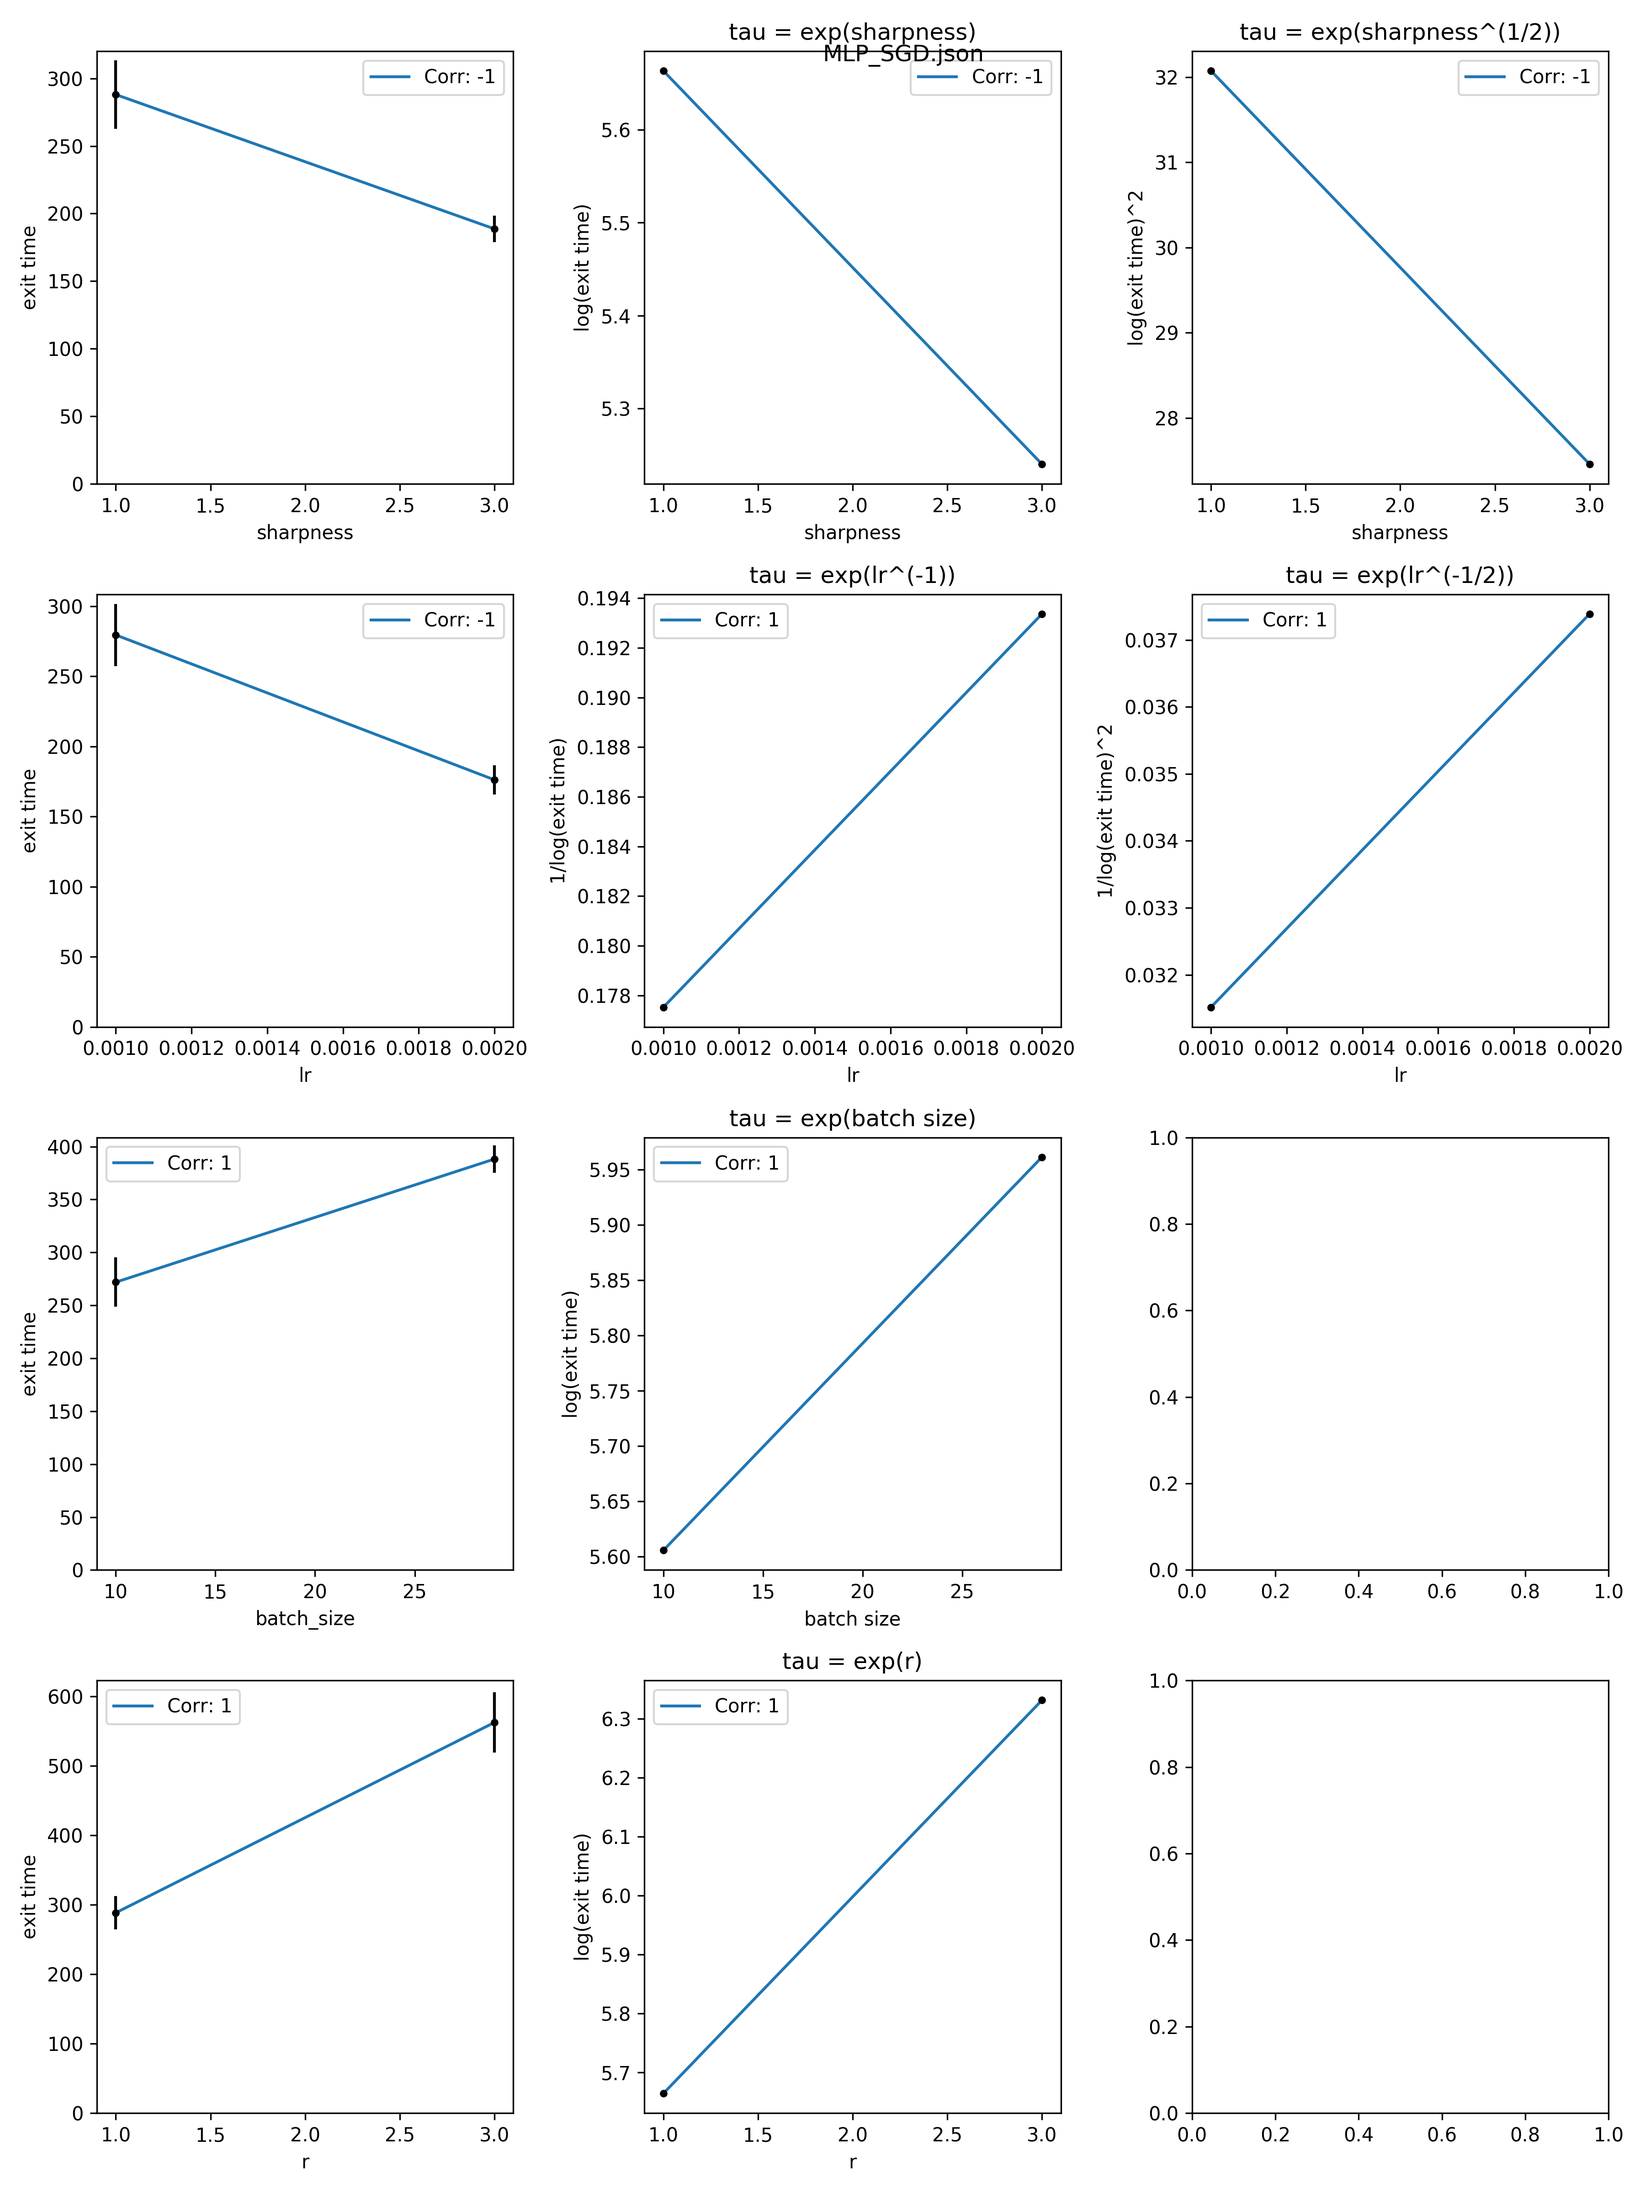
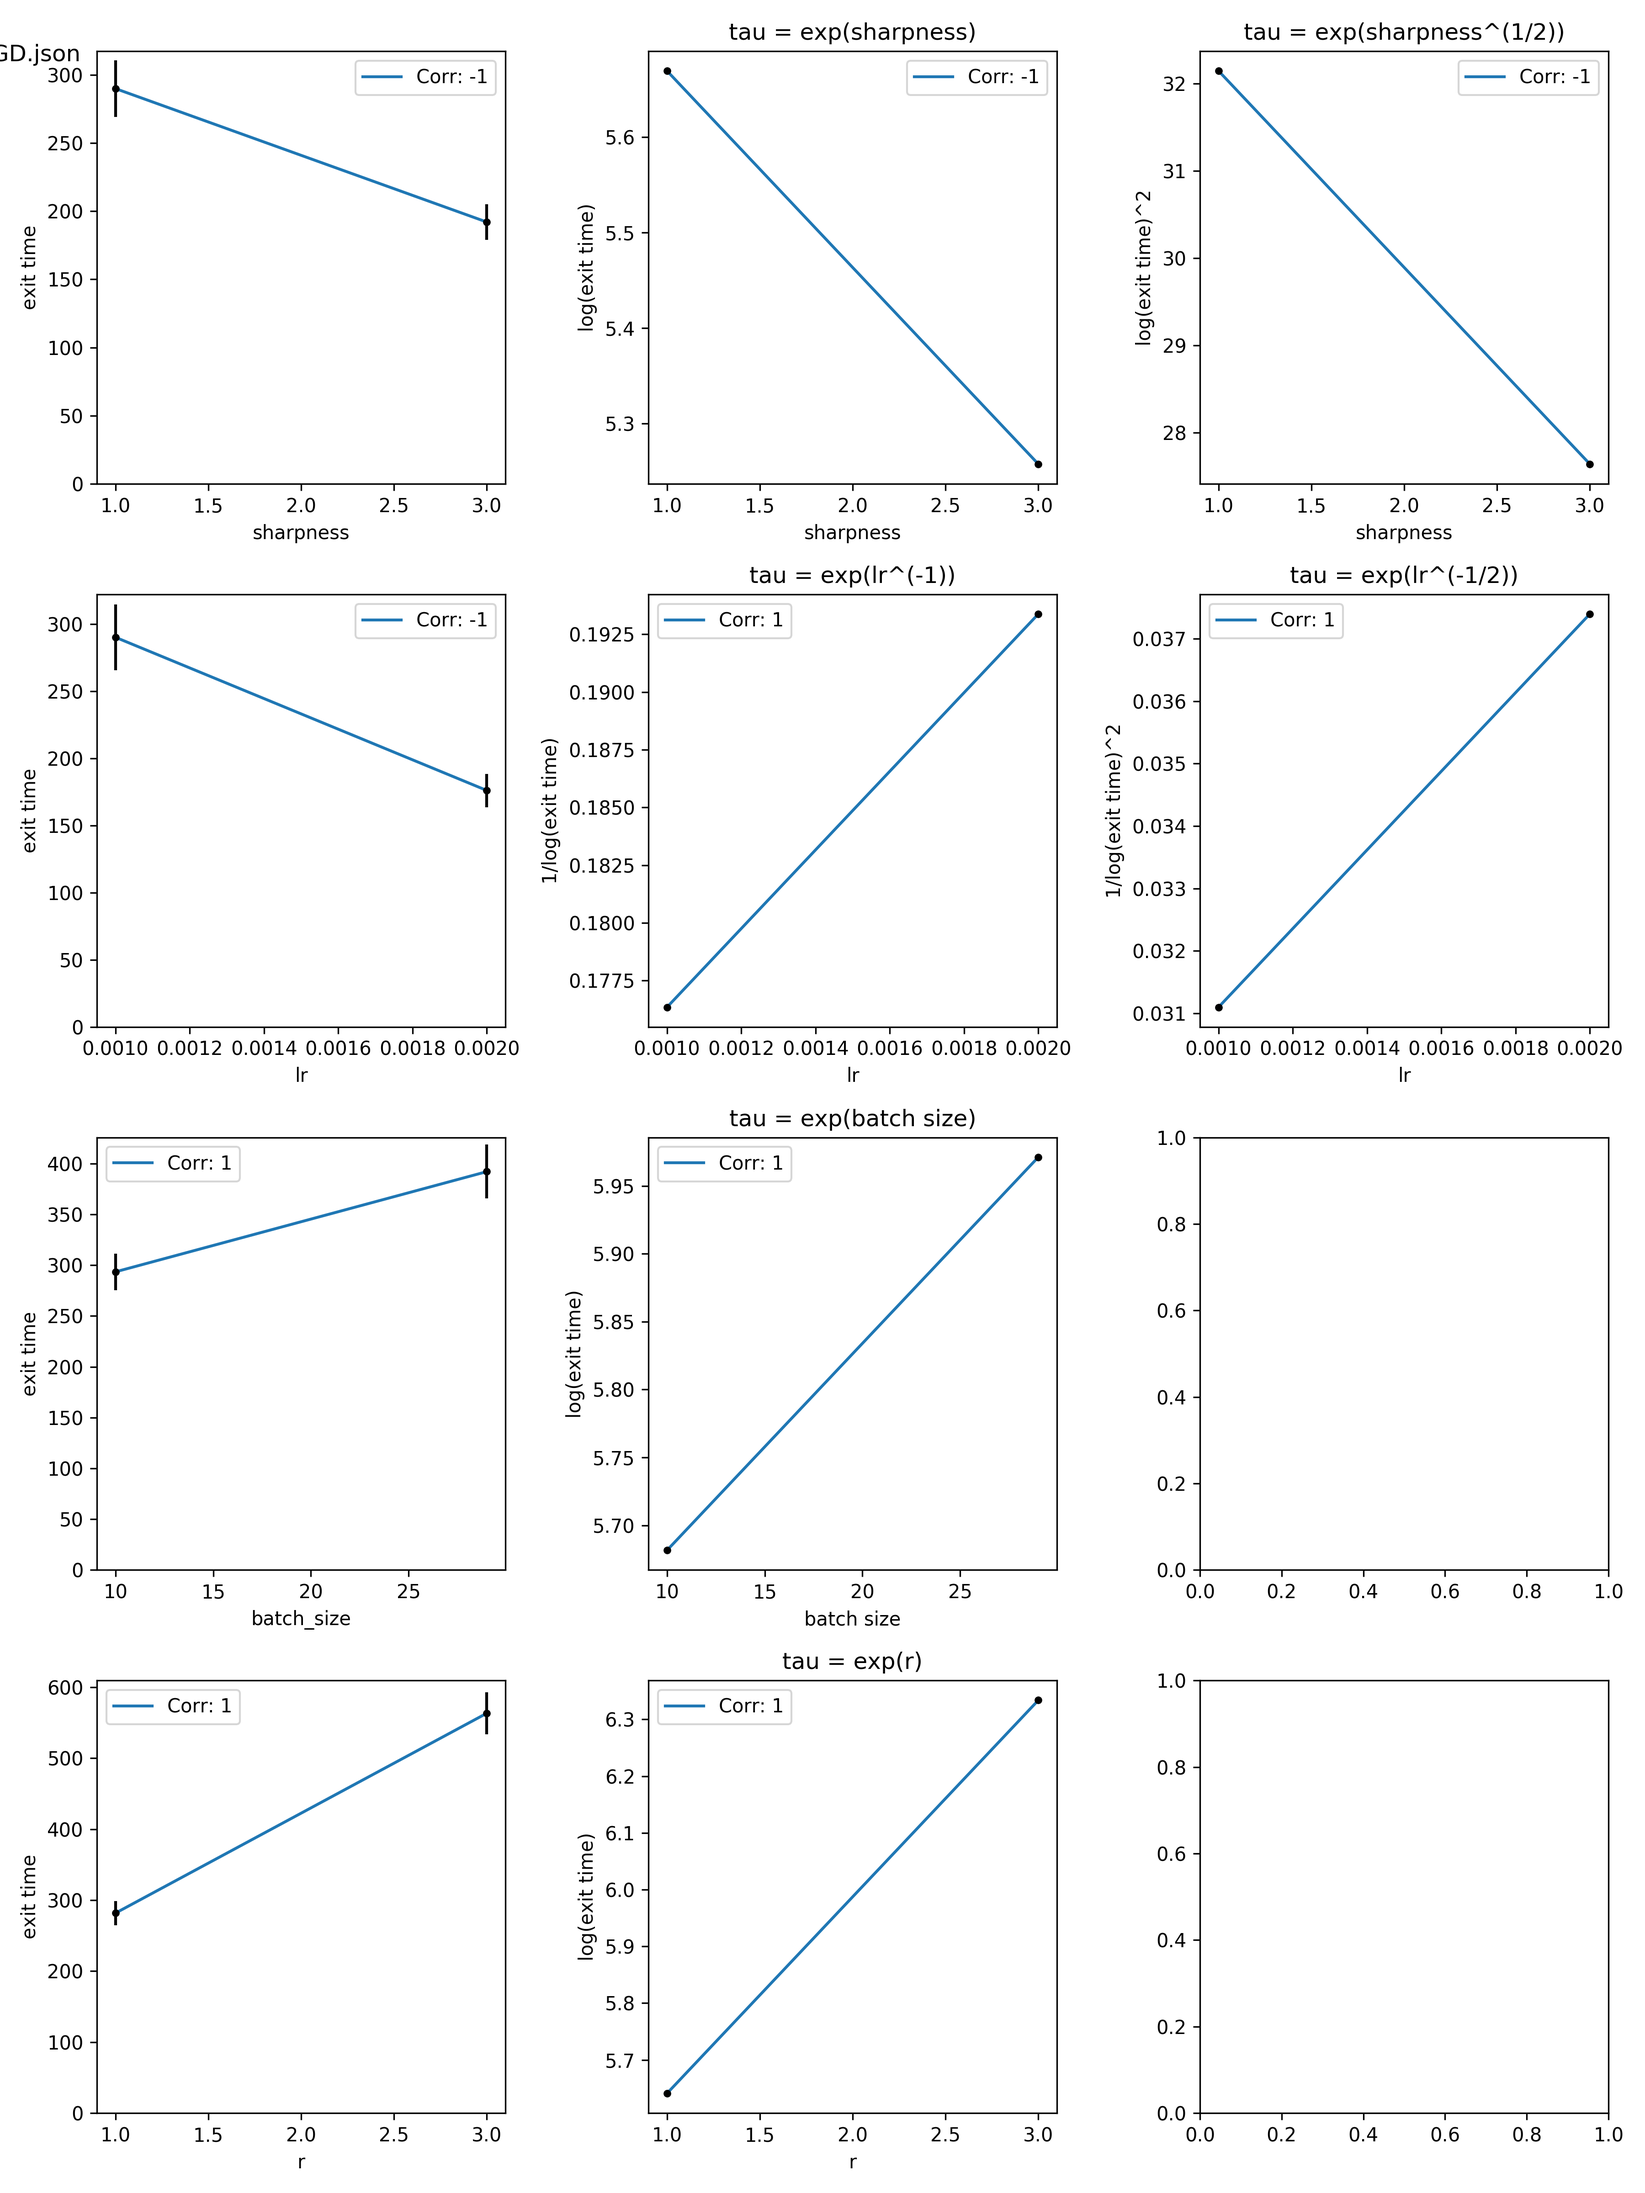
update

diff --git a/exit_time.py b/exit_time.py
@@ -154,7 +154,7 @@ import matplotlib.pyplot as plt
 from scipy import stats
 def draw(config_fn, sharpness_results, lr_results, batch_size_results, r_results):
     fig, (ax1, ax2, ax3, ax4) = plt.subplots(4, 3, figsize=(12, 16))
-    plt.suptitle(config_fn, ha="left")
+    plt.suptitle(config_fn, x=0)
     def draw_subfig(ax, x, y, std, h_param_name):
         coeff, _ = stats.pearsonr(x, y)
         log_coeff, _ = stats.pearsonr(x,np.log(y))
